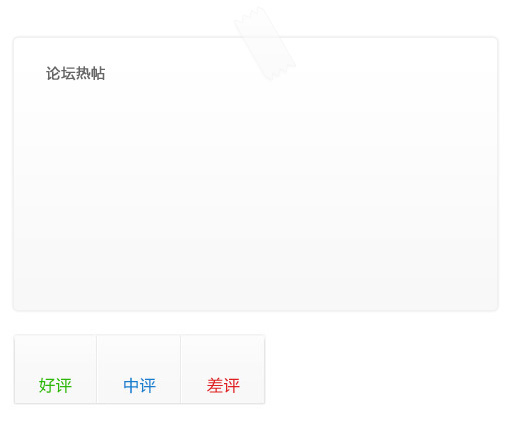
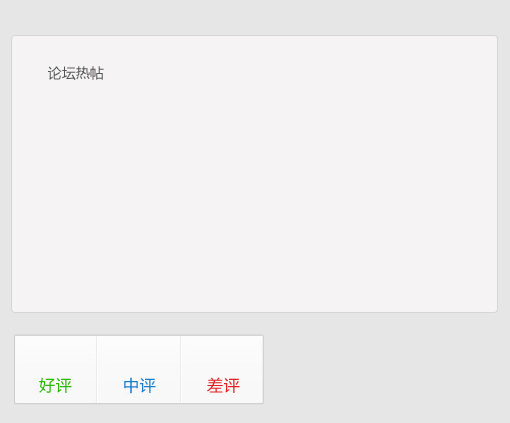
同步服务器文件

Changed region(s): [[0.0, 0.0, 1.0, 1.0], [0.0882, 0.1537, 0.2059, 0.2151]]

diff --git a/css/bbs/layout.css b/css/bbs/layout.css
@@ -3817,7 +3817,7 @@ input.mh_bdbtn4 {
 	background:url(/images/jrsb_btn.gif) -416px -633px no-repeat;
 	overflow:hidden;
 	line-height:99px;
-	text-indent:99px;
+	text-indent:25px;
 	border:none;
 	cursor:pointer;
 }
@@ -3945,13 +3945,13 @@ input.mh_bdbtn4 {
 }
 .wdtg_bg1 {
 	background:url(/images/wdtg_ico.gif) 0 0 no-repeat;
-	width:980px;
+	width:976px;
 	margin:0 auto;
 	height:405px;
 }
 .wdtg_bg2 {
 	width:972px;
-	border:2px solid #81b3e0;
+	border:2px solid #f6fbff;
 	border-top:none;
 	border-bottom:none;
 	background:#f6fbff;
@@ -3960,7 +3960,7 @@ input.mh_bdbtn4 {
 .wdtg_bg3 {
 	background:url(/images/wdtg_ico.gif) 0 -419px no-repeat;
 	height:23px;
-	width:980px;
+	width:976px;
 	margin:0 auto;
 }
 .wdtg_inp {

diff --git a/lib/task/tao.php b/lib/task/tao.php
@@ -17,7 +17,7 @@ if( $memberFields['credits'] < $minCredit) {
 $thisUrl = $baseUrl0.'?m='.$m;
 $lang = array(
 	/*'status'     => array('暂停中', '已发布，等待接手人接手', '已接手，等待接手人绑定买号', '等待发布方审核', '已绑定买号，等待接手方支付', '已支付，等待发布人发货', '已发货，等待收货与好评', '已确认，等待卖家确认', '交易完成'),*/
- 	'status'     => array(
+	'status'     => array(
 		'暂停中',
 		'等待接手',
 		'已接手，等待绑定买号', '等待发布方审核', '等待接手人对商品付款', '已支付，待核对快递地址', '准备发货，等待快递单号', '已支付，等待发布人发货',
@@ -92,16 +92,16 @@ switch ($m) {
 				array('ispinimage', 'int'),
 				array('ensurePoint', 'float'),
 				array('isScore', 'int'),
-                array('scoreLvl', 'int'),
-                array('isCredit', 'int'),//没找到这个地方  查看模板源文件后，修正到信誉限制项目
-                array('creditLvl', 'int'),//没找到这个地方 查看模板源文件后，修正到信誉限制项目
-                array('isGood', 'int'),
-                array('goodLvl', 'int'),
-                array('isBlack', 'int'),
-                array('blackLvl', 'int'),
-                array('isFame', 'int'),//定义项不对 已经更改 现在没有相关设置项保留
-                array('fameLvl', 'int'),//定义项不对 已经更改  现在没有相关设置项保留
-                array('isPlan', 'int'), 'planDate');
+		array('scoreLvl', 'int'),
+		array('isCredit', 'int'),//没找到这个地方  查看模板源文件后，修正到信誉限制项目
+		array('creditLvl', 'int'),//没找到这个地方 查看模板源文件后，修正到信誉限制项目
+		array('isGood', 'int'),
+		array('goodLvl', 'int'),
+		array('isBlack', 'int'),
+		array('blackLvl', 'int'),
+		array('isFame', 'int'),//定义项不对 已经更改 现在没有相关设置项保留
+		array('fameLvl', 'int'),//定义项不对 已经更改  现在没有相关设置项保留
+		array('isPlan', 'int'), 'planDate');
 
 			if ($isHot) $count = (int)$_POST['count'];
 			else $count = 1;
@@ -122,14 +122,14 @@ switch ($m) {
 				$datas2 && extract($datas2);
 				if ($isTpl && $tplTo) {
 					$tplTo = common::cutstr($tplTo, 64);
-	             	if ($members[groupid]==4) $maxTplCount = 30;
-		            if ($members[groupid]==5) $maxTplCount = 15;
-		            if ($members[groupid]==6) $maxTplCount = 9;
-		            if ($members[groupid]==7) $maxTplCount = 6;
-		            if ($members[groupid]==8) $maxTplCount = 5;
-		            if ($members[groupid]==9) $maxTplCount = 4;
-		            if ($members[groupid]==10) $maxTplCount = 3;
-		            if ($members[groupid]==11) $maxTplCount = 3;
+			if ($members[groupid]==4) $maxTplCount = 30;
+			    if ($members[groupid]==5) $maxTplCount = 15;
+			    if ($members[groupid]==6) $maxTplCount = 9;
+			    if ($members[groupid]==7) $maxTplCount = 6;
+			    if ($members[groupid]==8) $maxTplCount = 5;
+			    if ($members[groupid]==9) $maxTplCount = 4;
+			    if ($members[groupid]==10) $maxTplCount = 3;
+			    if ($members[groupid]==11) $maxTplCount = 3;
 
 					/* if ($isVip) $maxTplCount = 10;
 					elseif ($isVip2) $maxTplCount = 5;
@@ -188,14 +188,14 @@ switch ($m) {
 				if ($isTpl && $tplTo) {
 					$tplTo = common::cutstr($tplTo, 64);
 					$members = member_base::getMember($uid);
-	             	if ($members[groupid]==4) $maxTplCount = 30;
-		            if ($members[groupid]==5) $maxTplCount = 15;
-		            if ($members[groupid]==6) $maxTplCount = 9;
-		            if ($members[groupid]==7) $maxTplCount = 6;
-		            if ($members[groupid]==8) $maxTplCount = 5;
-		            if ($members[groupid]==9) $maxTplCount = 4;
-		            if ($members[groupid]==10) $maxTplCount = 3;
-		            if ($members[groupid]==11) $maxTplCount = 3;
+			if ($members[groupid]==4) $maxTplCount = 30;
+			    if ($members[groupid]==5) $maxTplCount = 15;
+			    if ($members[groupid]==6) $maxTplCount = 9;
+			    if ($members[groupid]==7) $maxTplCount = 6;
+			    if ($members[groupid]==8) $maxTplCount = 5;
+			    if ($members[groupid]==9) $maxTplCount = 4;
+			    if ($members[groupid]==10) $maxTplCount = 3;
+			    if ($members[groupid]==11) $maxTplCount = 3;
 					if (db::data_count('task_tpl', "uid='$uid'") < $maxTplCount) {
 						db::insert('task_tpl', array(
 							'type'      => 1,
@@ -271,18 +271,18 @@ switch ($m) {
 					common::goto_url($referer, true);
 				}
 			} elseif ($receive){
-                $task = task_base::_get($receive);//先判断是否需要上传图片，如果需要上传图片，则跳转回原先的网址
-                if ($task&&($task['isShare']||$task['ispinimage'])) {
-                    if($task['ispinimage']&&$task['pinimage']=='')
-                        $upimage=true;
-                    if($task['isshare']&&$task['shareiamge']=='')
-                        $upimage=true;
-                }
-                if($upimage){
-                    common::setMsg('你尚未上传好评图！请返回上传好评图');
-                    common::goto_url($referer, true);
-                    exit;
-                }
+		$task = task_base::_get($receive);//先判断是否需要上传图片，如果需要上传图片，则跳转回原先的网址
+		if ($task&&($task['isShare']||$task['ispinimage'])) {
+		    if($task['ispinimage']&&$task['pinimage']=='')
+			$upimage=true;
+		    if($task['isshare']&&$task['shareiamge']=='')
+			$upimage=true;
+		}
+		if($upimage){
+		    common::setMsg('你尚未上传好评图！请返回上传好评图');
+		    common::goto_url($referer, true);
+		    exit;
+		}
 				$rs = task_tao::receive($receive, $uid);
 				if ($rs === true){
 					common::setMsg('已经确认收货，等待卖家确认');
@@ -556,7 +556,7 @@ switch ($m) {
 							))) {
 								db::update('memberfields', 'sellers1=sellers1+1', "uid='$uid'");
 							$totalcount=db::data_count('sellers', "uid='$uid'");
-								
+
 								//从第二次绑定掌柜开始每次绑定一个扣除五元
 							if($totalcount>0)
 								member_base::redMoney($uid,'5','添加掌柜扣除5元');
@@ -631,10 +631,10 @@ switch ($m) {
 		}
 		if ($rs = form::is_form_hash2()) {
 			if ($rs === true) {
-                $row=data_taobaoUser::realname($_POST['nickname']);
+		$row=data_taobaoUser::realname($_POST['nickname']);
 			    if($row){
 				    if ($maxTieCount > 0 && $memberFields['buyers1'] + 1 > $maxTieCount){
-				          $rs='对不起，您不可以绑定更多的买号了';
+					  $rs='对不起，您不可以绑定更多的买号了';
 				    }else {
 					      $nickname = $_POST['nickname'];
 					      $rs = task_buyer::tie($uid, 1, $nickname,$row);
@@ -700,7 +700,7 @@ switch ($m) {
 		checkPwd2();
 		$members = member_base::getMember($uid);
 		if ($rs = form::is_form_hash2()) {
-			$datas = form::get('nickname', 'itemurl', 'visitTip', 'visitKey', array('visitWay', 'int'), array('price', 'float'), array('isPriceFit', 'int'), array('pointExt', 'float'), array('times', 'int'),  array('scores', 'int'), array('isRemark', 'int'), 'remark', array('isShare', 'int'),array('isAddress', 'int'), 'address',array('share', 'int'), 'tips', array('isDbssc', 'int'),array('isVerify', 'int'), array('issphb', 'float'),'sphbdz',array('isLimit', 'int'), array('limit', 'int'), 
+			$datas = form::get('nickname', 'itemurl', 'visitTip', 'visitKey', array('visitWay', 'int'), array('price', 'float'), array('isPriceFit', 'int'), array('pointExt', 'float'), array('times', 'int'),  array('scores', 'int'), array('isRemark', 'int'), 'remark', array('isShare', 'int'),array('isAddress', 'int'), 'address',array('share', 'int'), 'tips', array('isDbssc', 'int'),array('isVerify', 'int'), array('issphb', 'float'),'sphbdz',array('isLimit', 'int'), array('limit', 'int'),
 			array('chssp', 'int'),array('isNoword', 'int'),
 				array('isReal', 'int'), array('cbxIsTip', 'int'),'txtBuyCount','cbIsHiddenName','cbIsNoneAssess','txtAreaService','txtAccount','txtMobile','txtSpecs','ddlDeliver','cbxName','cbxMobile','cbxcode',
 				array('realname', 'int'),'isFMaxBTSCount'.'FMaxBTSCount','cbxIsTaoG','txtTaoG','isawb','expressfull','isSign','Province',
@@ -718,7 +718,7 @@ switch ($m) {
 				if($datas['isLimitCity'])
 					$datas['Province']=serialize($datas['Province']);
 				else
-					$datas['Province']='';				
+					$datas['Province']='';
 				$rs = task_tao::add($datas, $uid, $count);
 			}
 			if ($rs === true) {
@@ -728,14 +728,14 @@ switch ($m) {
 				if ($isTpl && $tplTo) {
 					$tplTo = common::cutstr($tplTo, 64);
 					$members = member_base::getMember($uid);
-	             	if ($members[groupid]==4) $maxTplCount = 30;
-		            if ($members[groupid]==5) $maxTplCount = 15;
-		            if ($members[groupid]==6) $maxTplCount = 9;
-		            if ($members[groupid]==7) $maxTplCount = 6;
-		            if ($members[groupid]==8) $maxTplCount = 5;
-		            if ($members[groupid]==9) $maxTplCount = 4;
-		            if ($members[groupid]==10) $maxTplCount = 3;
-		            if ($members[groupid]==11) $maxTplCount = 3;
+			if ($members[groupid]==4) $maxTplCount = 30;
+			    if ($members[groupid]==5) $maxTplCount = 15;
+			    if ($members[groupid]==6) $maxTplCount = 9;
+			    if ($members[groupid]==7) $maxTplCount = 6;
+			    if ($members[groupid]==8) $maxTplCount = 5;
+			    if ($members[groupid]==9) $maxTplCount = 4;
+			    if ($members[groupid]==10) $maxTplCount = 3;
+			    if ($members[groupid]==11) $maxTplCount = 3;
 					if (db::data_count('task_tpl', "uid='$uid'") < $maxTplCount) {
 						db::insert('task_tpl', array(
 							'type'      => 1,
@@ -806,14 +806,14 @@ switch ($m) {
 				if ($isTpl && $tplTo) {
 					$tplTo = common::cutstr($tplTo, 64);
 					$members = member_base::getMember($uid);
-	             	if ($members[groupid]==4) $maxTplCount = 30;
-		            if ($members[groupid]==5) $maxTplCount = 15;
-		            if ($members[groupid]==6) $maxTplCount = 9;
-		            if ($members[groupid]==7) $maxTplCount = 6;
-		            if ($members[groupid]==8) $maxTplCount = 5;
-		            if ($members[groupid]==9) $maxTplCount = 4;
-		            if ($members[groupid]==10) $maxTplCount = 3;
-		            if ($members[groupid]==11) $maxTplCount = 3;
+			if ($members[groupid]==4) $maxTplCount = 30;
+			    if ($members[groupid]==5) $maxTplCount = 15;
+			    if ($members[groupid]==6) $maxTplCount = 9;
+			    if ($members[groupid]==7) $maxTplCount = 6;
+			    if ($members[groupid]==8) $maxTplCount = 5;
+			    if ($members[groupid]==9) $maxTplCount = 4;
+			    if ($members[groupid]==10) $maxTplCount = 3;
+			    if ($members[groupid]==11) $maxTplCount = 3;
 					if (db::data_count('task_tpl', "uid='$uid'") < $maxTplCount) {
 						db::insert('task_tpl', array(
 							'type'      => 1,
@@ -866,14 +866,14 @@ switch ($m) {
 				if ($isTpl && $tplTo) {
 					$tplTo = common::cutstr($tplTo, 64);
 					$members = member_base::getMember($uid);
-	             	if ($members[groupid]==4) $maxTplCount = 30;
-		            if ($members[groupid]==5) $maxTplCount = 15;
-		            if ($members[groupid]==6) $maxTplCount = 9;
-		            if ($members[groupid]==7) $maxTplCount = 6;
-		            if ($members[groupid]==8) $maxTplCount = 5;
-		            if ($members[groupid]==9) $maxTplCount = 4;
-		            if ($members[groupid]==10) $maxTplCount = 3;
-		            if ($members[groupid]==11) $maxTplCount = 3;
+			if ($members[groupid]==4) $maxTplCount = 30;
+			    if ($members[groupid]==5) $maxTplCount = 15;
+			    if ($members[groupid]==6) $maxTplCount = 9;
+			    if ($members[groupid]==7) $maxTplCount = 6;
+			    if ($members[groupid]==8) $maxTplCount = 5;
+			    if ($members[groupid]==9) $maxTplCount = 4;
+			    if ($members[groupid]==10) $maxTplCount = 3;
+			    if ($members[groupid]==11) $maxTplCount = 3;
 					if (db::data_count('task_tpl', "uid='$uid'") < $maxTplCount) {
 						db::insert('task_tpl', array(
 							'type'      => 1,

diff --git a/cache/array/userGroups.php b/cache/array/userGroups.php
@@ -1,1 +1,1 @@
-<?php exit;?>a:11:{s:5:"admin";a:4:{s:2:"id";s:1:"1";s:4:"sort";s:1:"1";s:4:"name";s:9:"管理员";s:3:"key";s:5:"admin";}s:9:"moderator";a:4:{s:2:"id";s:1:"2";s:4:"sort";s:1:"2";s:4:"name";s:6:"版主";s:3:"key";s:9:"moderator";}s:3:"vip";a:4:{s:2:"id";s:1:"6";s:4:"sort";s:1:"6";s:4:"name";s:9:"一级VIP";s:3:"key";s:3:"vip";}s:14:"ordinary_users";a:4:{s:2:"id";s:1:"9";s:4:"sort";s:1:"9";s:4:"name";s:12:"普通会员";s:3:"key";s:14:"ordinary_users";}s:11:"drillmaster";a:4:{s:2:"id";s:1:"3";s:4:"sort";s:1:"3";s:4:"name";s:6:"教官";s:3:"key";s:11:"drillmaster";}s:12:"novice_users";a:4:{s:2:"id";s:2:"11";s:4:"sort";s:2:"11";s:4:"name";s:12:"新手会员";s:3:"key";s:12:"novice_users";}s:10:"gold_users";a:4:{s:2:"id";s:2:"10";s:4:"sort";s:2:"10";s:4:"name";s:12:"金牌会员";s:3:"key";s:10:"gold_users";}s:14:"platinum_users";a:4:{s:2:"id";s:1:"8";s:4:"sort";s:1:"8";s:4:"name";s:12:"白金会员";s:3:"key";s:14:"platinum_users";}s:13:"diamond_users";a:4:{s:2:"id";s:1:"7";s:4:"sort";s:1:"7";s:4:"name";s:12:"钻石会员";s:3:"key";s:13:"diamond_users";}s:9:"jewel_vip";a:4:{s:2:"id";s:1:"5";s:4:"sort";s:1:"5";s:4:"name";s:9:"钻石VIP";s:3:"key";s:9:"jewel_vip";}s:9:"crown_vip";a:4:{s:2:"id";s:1:"4";s:4:"sort";s:1:"4";s:4:"name";s:9:"皇冠VIP";s:3:"key";s:9:"crown_vip";}}
+<?php exit;?>a:11:{s:5:"admin";a:4:{s:2:"id";s:1:"1";s:4:"sort";s:1:"1";s:4:"name";s:9:"管理员";s:3:"key";s:5:"admin";}s:9:"moderator";a:4:{s:2:"id";s:1:"2";s:4:"sort";s:1:"2";s:4:"name";s:6:"版主";s:3:"key";s:9:"moderator";}s:11:"drillmaster";a:4:{s:2:"id";s:1:"3";s:4:"sort";s:1:"3";s:4:"name";s:6:"教官";s:3:"key";s:11:"drillmaster";}s:9:"crown_vip";a:4:{s:2:"id";s:1:"4";s:4:"sort";s:1:"4";s:4:"name";s:9:"皇冠VIP";s:3:"key";s:9:"crown_vip";}s:9:"jewel_vip";a:4:{s:2:"id";s:1:"5";s:4:"sort";s:1:"5";s:4:"name";s:9:"钻石VIP";s:3:"key";s:9:"jewel_vip";}s:3:"vip";a:4:{s:2:"id";s:1:"6";s:4:"sort";s:1:"6";s:4:"name";s:9:"一级VIP";s:3:"key";s:3:"vip";}s:13:"diamond_users";a:4:{s:2:"id";s:1:"7";s:4:"sort";s:1:"7";s:4:"name";s:12:"钻石会员";s:3:"key";s:13:"diamond_users";}s:14:"platinum_users";a:4:{s:2:"id";s:1:"8";s:4:"sort";s:1:"8";s:4:"name";s:12:"白金会员";s:3:"key";s:14:"platinum_users";}s:14:"ordinary_users";a:4:{s:2:"id";s:1:"9";s:4:"sort";s:1:"9";s:4:"name";s:12:"普通会员";s:3:"key";s:14:"ordinary_users";}s:10:"gold_users";a:4:{s:2:"id";s:2:"10";s:4:"sort";s:2:"10";s:4:"name";s:12:"金牌会员";s:3:"key";s:10:"gold_users";}s:12:"novice_users";a:4:{s:2:"id";s:2:"11";s:4:"sort";s:2:"11";s:4:"name";s:12:"新手会员";s:3:"key";s:12:"novice_users";}}

diff --git a/cache/array/bbs_cache_update_posts.php b/cache/array/bbs_cache_update_posts.php
@@ -1,1 +1,1 @@
-<?php exit;?>a:1:{s:8:"lasttime";i:1409932800;}
+<?php exit;?>a:1:{s:8:"lasttime";i:1410364800;}

diff --git a/cache/array/member_base_cache_update_spread.php b/cache/array/member_base_cache_update_spread.php
@@ -1,1 +1,1 @@
-<?php exit;?>a:1:{s:8:"lasttime";i:1407081600;}
+<?php exit;?>a:1:{s:8:"lasttime";i:1410105600;}

diff --git a/cache/array/task_flow_cache_update_taobao.php b/cache/array/task_flow_cache_update_taobao.php
@@ -1,1 +1,1 @@
-<?php exit;?>a:1:{s:8:"lasttime";i:1394553600;}
+<?php exit;?>a:1:{s:8:"lasttime";i:1410019200;}
